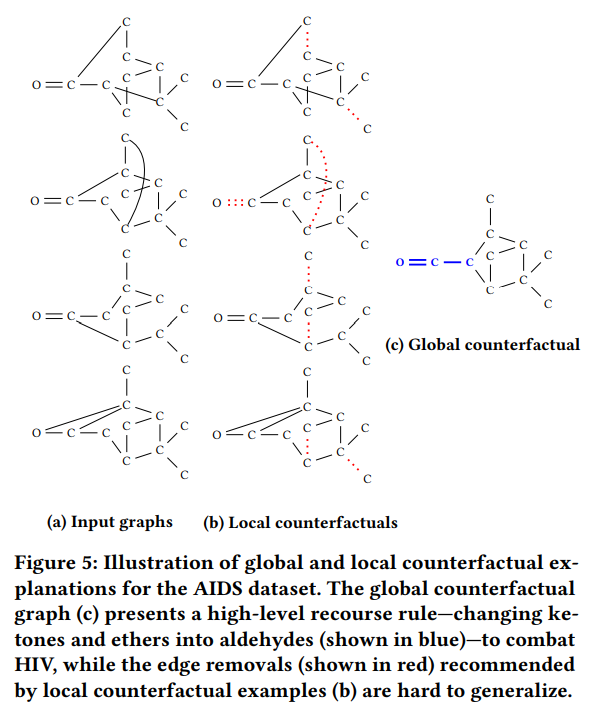
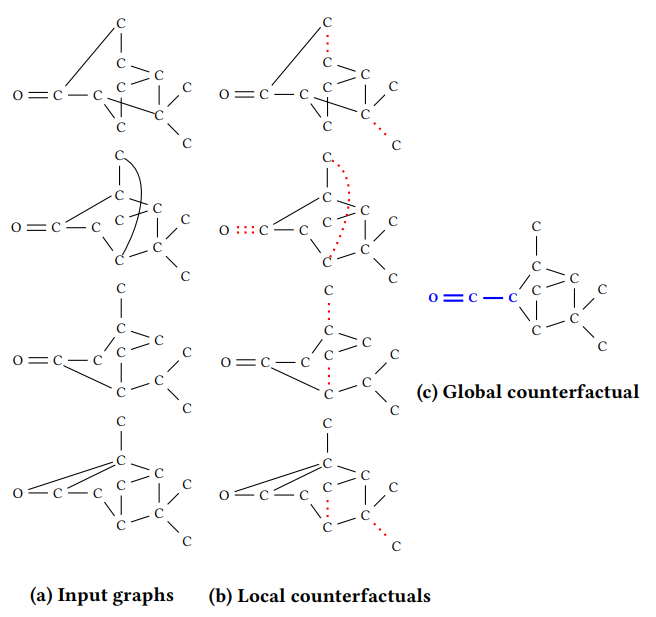
+ gcf paper

diff --git a/projects/finished.md b/projects/finished.md
@@ -25,8 +25,11 @@ input graphs. Drug discovery is one of the main applications of this work.
 ![](/img/gcfexplainer_case_study.png)
 
 <p align="center" width="100%">
-    <img width="%" src="/img/gcfexplainer_case_study.png">
+    <img width="50%" src="../img/gcfexplainer_case_study.png">
 </p>
+
+Illustration of global and local counterfactual explanations for the AIDS dataset. The global counterfactual graph (c) presents a high-level recourse rule—changing ketones and ethers into 
+aldehydes (shown in blue)—to combat HIV, while the edge removals (shown in red) recommended by local counterfactual examples (b) are hard to generalize.
 
 ## Event Detection on Dynamic Networks
 Period: September 2018 - September 2020  
